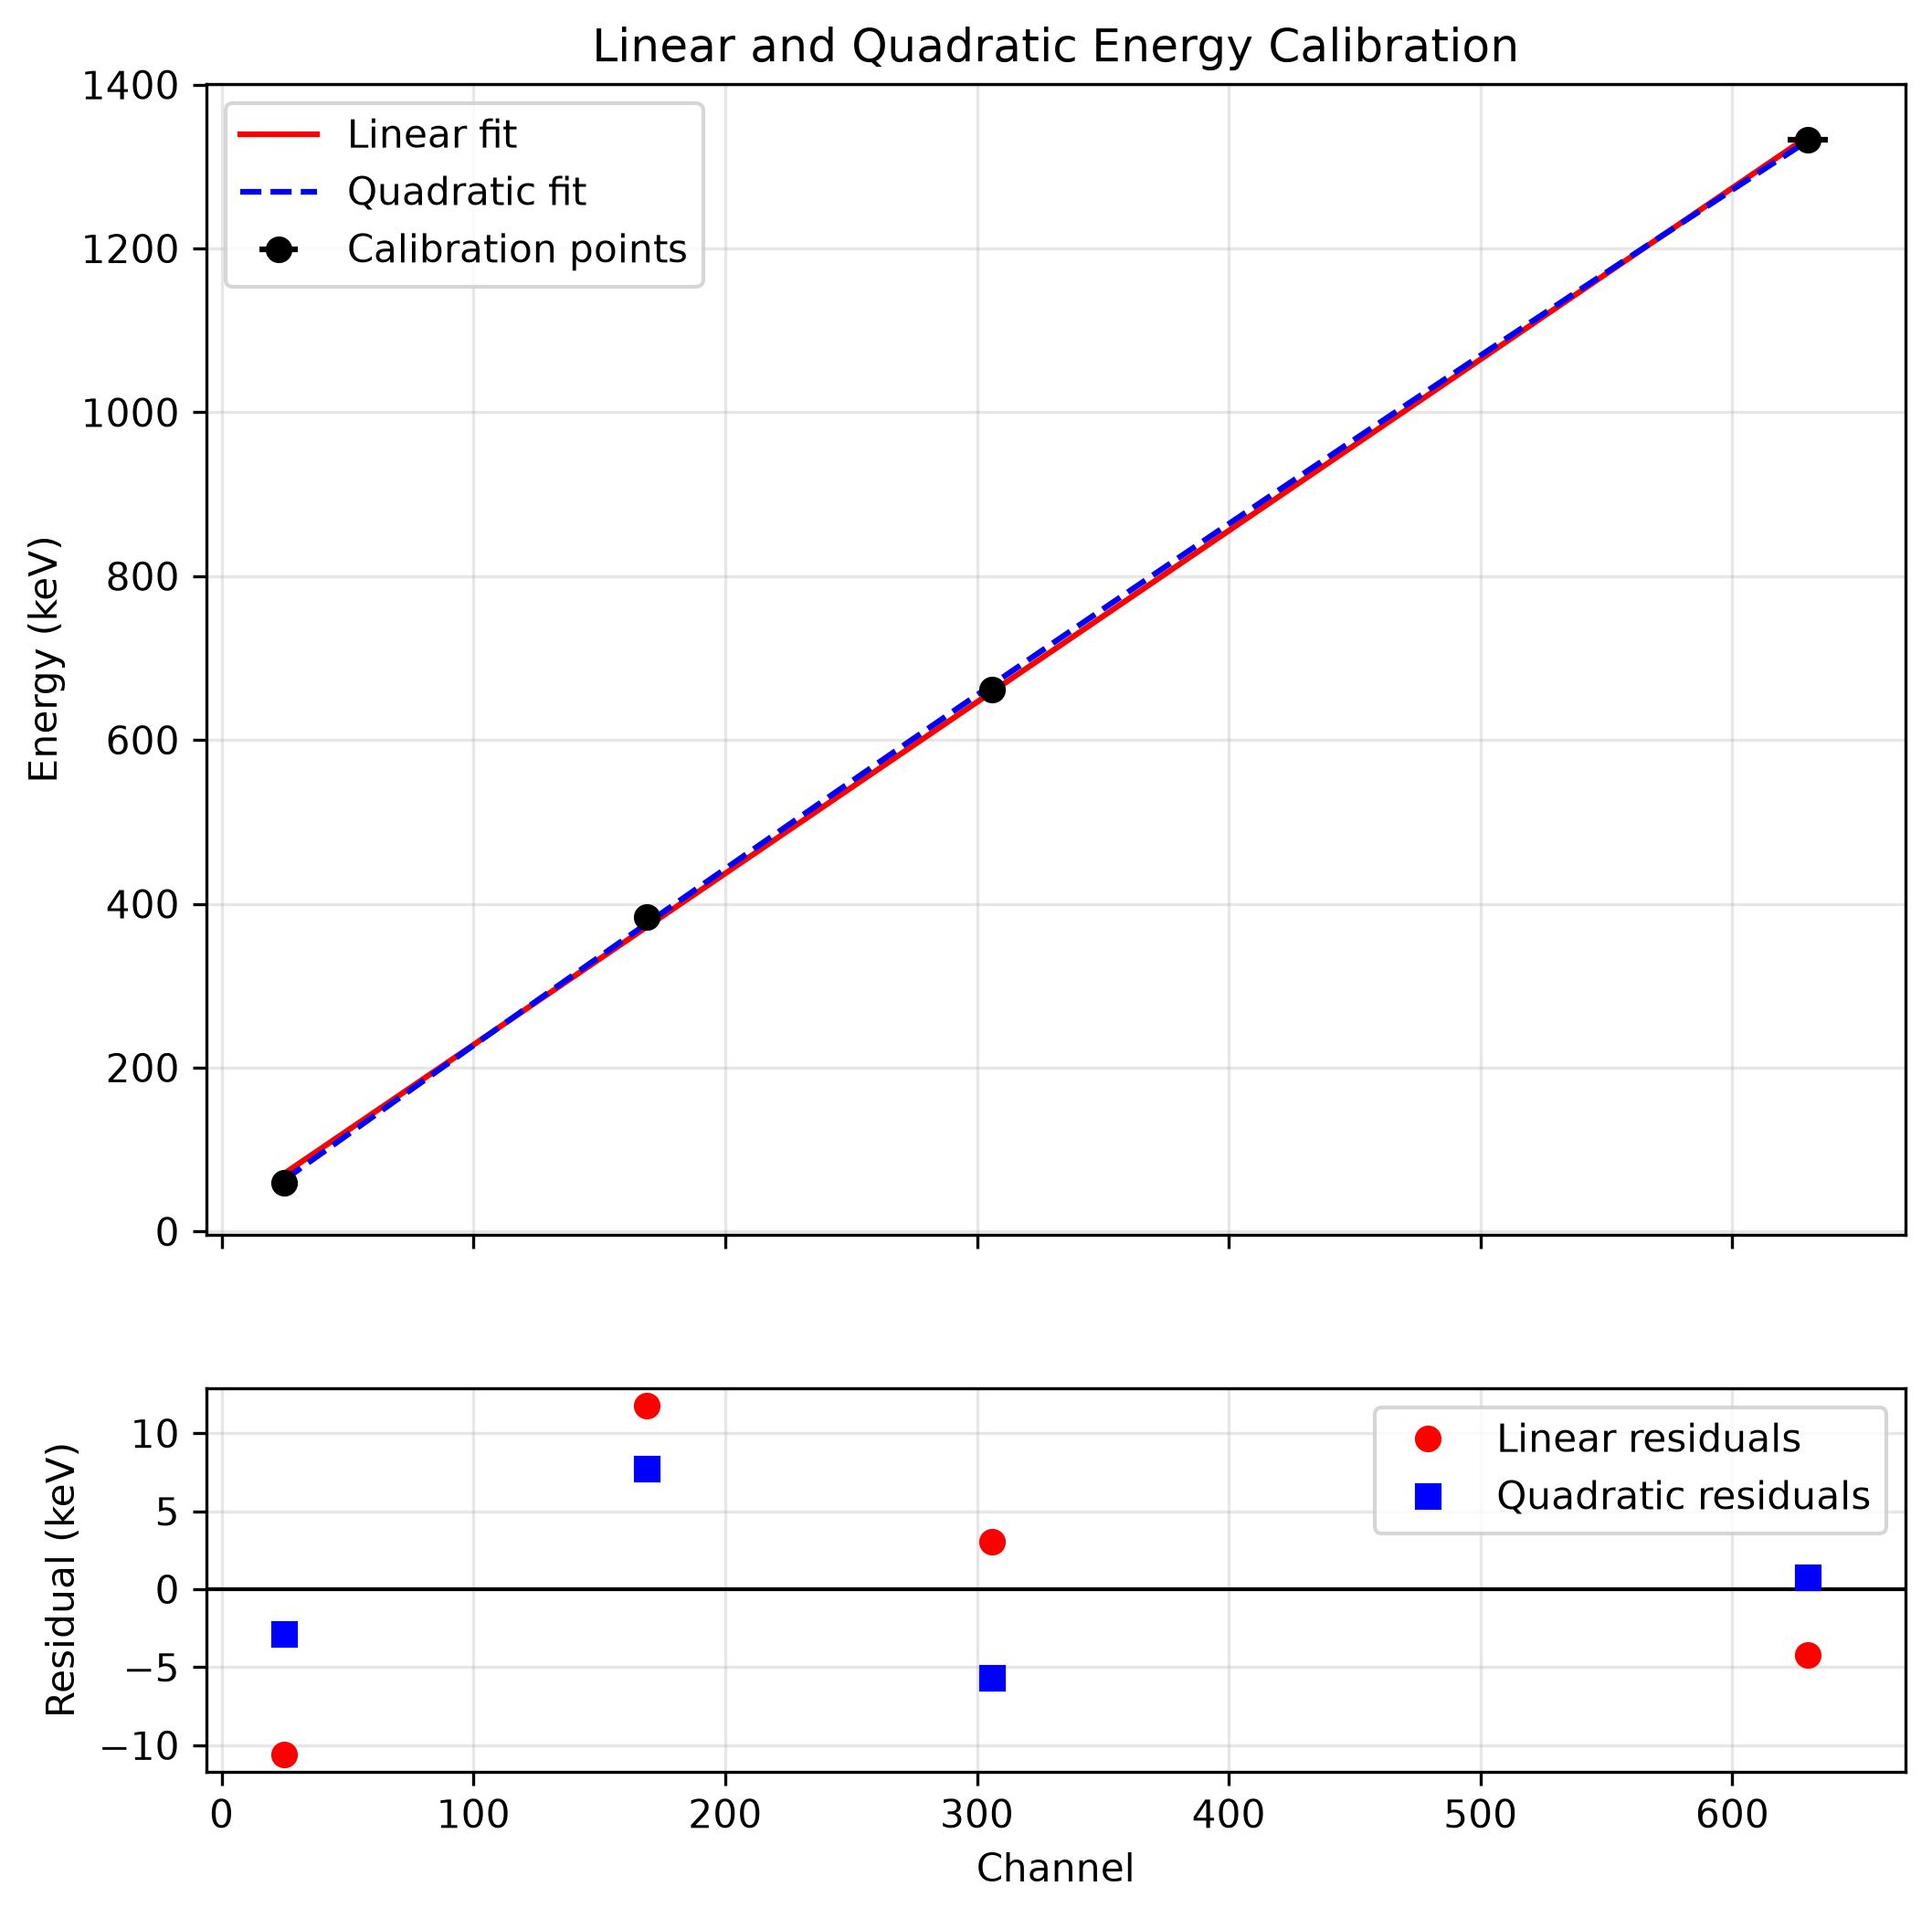
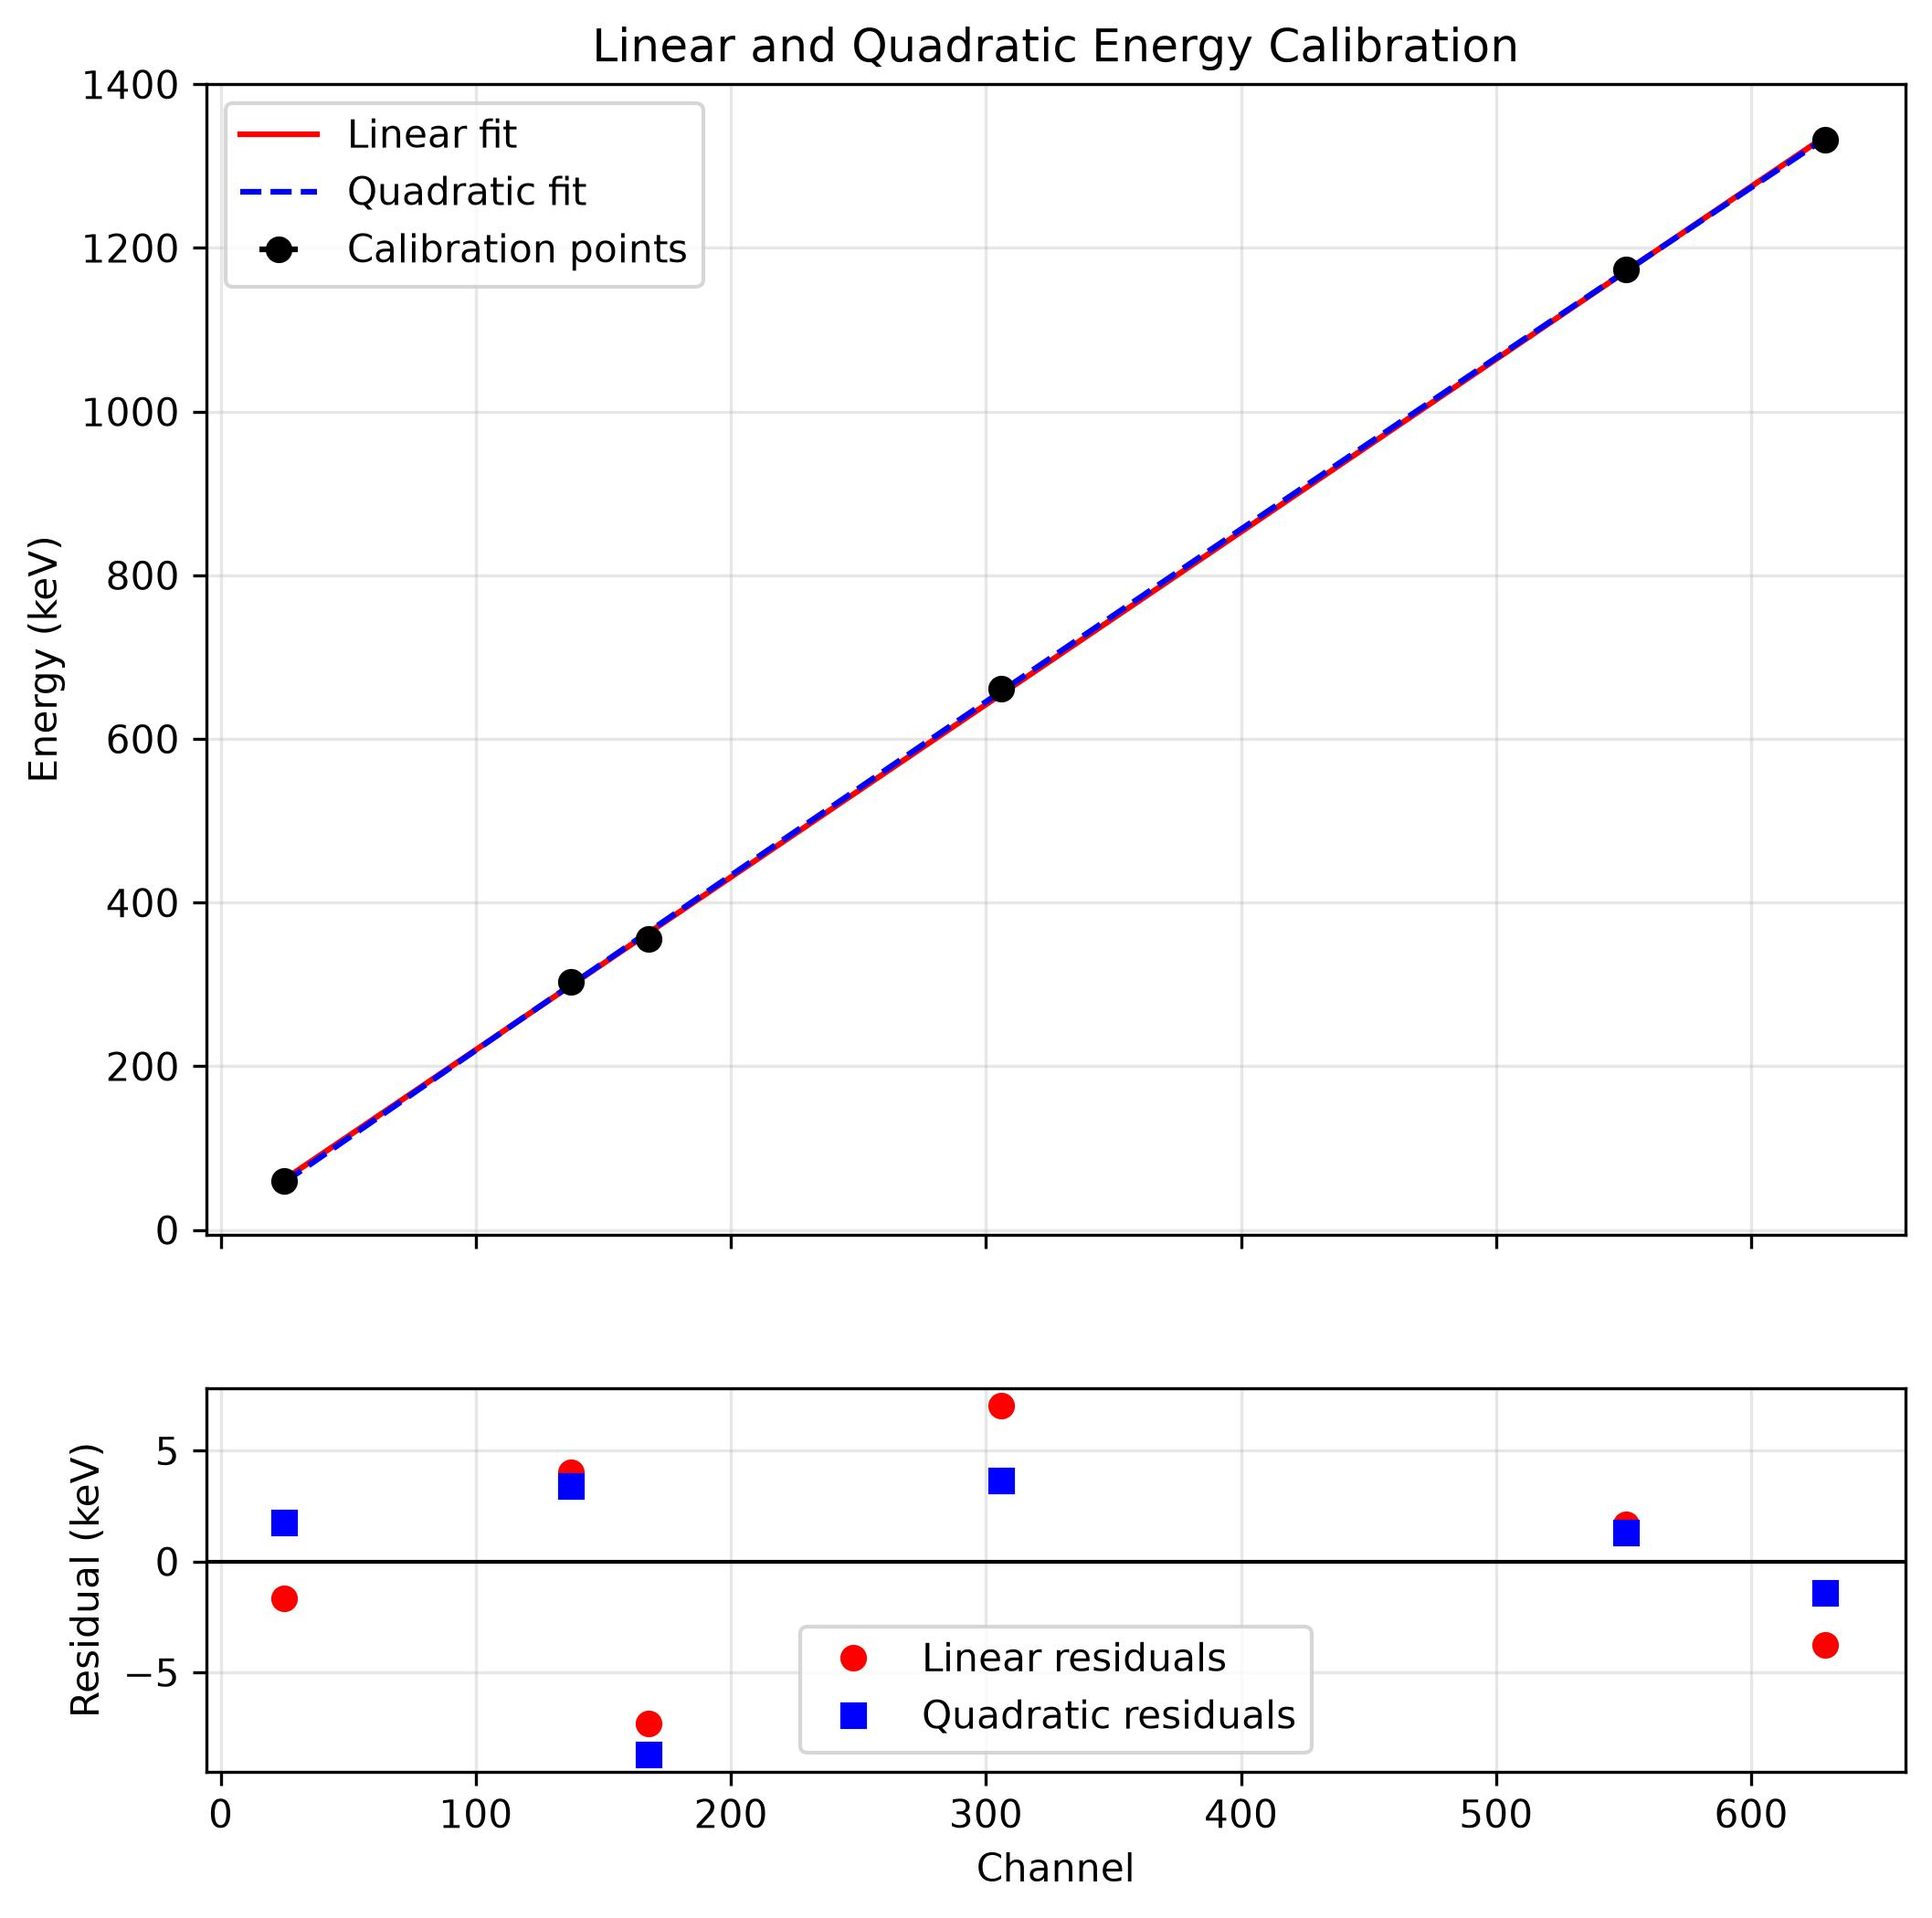
added the eff file and did the argparse

diff --git a/Efficiency.py b/Efficiency.py
@@ -231,57 +231,57 @@ def extract_measurement_date(filename):
 # SELECT A PEAK
 # ============================================================
 
-def select_peak(detector, source):
-    """
-    Display fitted peaks for a source and ask the user
-    which peak should be used for efficiency.
-    """
+# def select_peak(detector, source):
+#     """
+#     Display fitted peaks for a source and ask the user
+#     which peak should be used for efficiency.
+#     """
 
-    records = [
-        peak
-        for peak in detector.calibration_peak_records
-        if peak["isotope"] == source
-    ]
+#     records = [
+#         peak
+#         for peak in detector.calibration_peak_records
+#         if peak["isotope"] == source
+#     ]
 
-    if not records:
-        raise ValueError(
-            f"No fitted calibration peaks found for {source}."
-        )
+#     if not records:
+#         raise ValueError(
+#             f"No fitted calibration peaks found for {source}."
+#         )
 
-    records = sorted(
-        records,
-        key=lambda peak: peak["energy"]
-    )
+#     records = sorted(
+#         records,
+#         key=lambda peak: peak["energy"]
+#     )
 
-    print("\nAvailable fitted peaks")
-    print("-" * 65)
+#     print("\nAvailable fitted peaks")
+#     print("-" * 65)
 
-    for i, peak in enumerate(records, 1):
+#     for i, peak in enumerate(records, 1):
 
-        print(
-            f"{i}. Energy: {peak['energy']:.3f} keV | "
-            f"Centroid: {peak['centroid']:.2f} channels | "
-            f"Count rate: {peak['area']:.3f} CPS"
-        )
+#         print(
+#             f"{i}. Energy: {peak['energy']:.3f} keV | "
+#             f"Centroid: {peak['centroid']:.2f} channels | "
+#             f"Count rate: {peak['area']:.3f} CPS"
+#         )
 
-    print("-" * 65)
+#     print("-" * 65)
 
-    while True:
+#     while True:
 
-        answer = input(
-            "\nSelect the peak number for efficiency calculation: "
-        ).strip()
+#         answer = input(
+#             "\nSelect the peak number for efficiency calculation: "
+#         ).strip()
 
-        try:
-            choice = int(answer)
+#         try:
+#             choice = int(answer)
 
-            if 1 <= choice <= len(records):
-                return records[choice - 1]
+#             if 1 <= choice <= len(records):
+#                 return records[choice - 1]
 
-            print("Please select one of the listed peaks.")
+#             print("Please select one of the listed peaks.")
 
-        except ValueError:
-            print("Please enter a valid peak number.")
+#         except ValueError:
+#             print("Please enter a valid peak number.")
 
 
 # ============================================================
@@ -303,7 +303,7 @@ def get_emission_fraction(source, energy):
         if np.isclose(
             energy,
             known_energy,
-            atol=0.01
+            atol=1.01
         ):
             print(
                 f"Using emission fraction {fraction} "
@@ -466,6 +466,8 @@ def absolute_efficiency(detector, source=None):
                     f"{efficiency_error:.2e}"
                 )
 
+        # Store results directly in the Detector object.
+    detector.efficiency = results
 
     print("\n" + "=" * 65)
     print("EFFICIENCY CALCULATION COMPLETE")
@@ -473,51 +475,48 @@ def absolute_efficiency(detector, source=None):
 
     return results
 
-def intrinsic_eff(detector):
-    """
-    Calculate intrinsic photopeak efficiency using the
-    detector radius and each spectrum's source distance.
-    """
+def intrinsic_eff(asb_effic, filename):   
+    #WHatever the intrinisic effeciencie ends up being you can append it to the result in absolute effciency
+    '''
+    Function that calculates the intrinsic efficiency of the detector.
+    This is done by determining and applying a geometry factor which 
+    itself is dependant on the detectors radius and distance from 
+    the radio isotope source.
+    __________________
+    Parameters
+        dist: Float
+        The distance the detector is from the radioisotope
 
-    if not detector.efficiency:
-        raise ValueError(
-            "No absolute efficiency results stored. "
-            "Run calculate_absolute_efficiency() first."
-        )
+        radius: Float
+        radius of the detector
 
-    radius = detector.radius
+        abs_effic: Float
+        absolute efficiency of the detector
+    ___________________
+    Outputs
+        intrinsic_efficiency: Float
+        intrinsic efficiency of the detector
+    
+    '''
+    pass
+    # #get detector from file name
+    # detector = str(filename).split('_')[0]
 
-    results = {}
+    # # radius list of detectors
+    # dist = 0.1 # meters
+    # rad_list =  {
+    #     "BGO": #radius of bgo detector,
+    #     "NaI": #radius of nai detector,
+    #     "CdTe": #radius of bcdte detector
+    # }
 
-    for source, peaks in detector.efficiency.items():
+    # radius = rad_list[detector]
 
-        # We can actually get the distance from the Spectrum class - Thomas
-        dist = detector.spectra[source].distance
-
-        if dist is None or dist <= 0:
-            raise ValueError(
-                f"No valid source distance stored for {source}."
-            )
-
-        # Calculate geometry factor for this source
-        G = 0.5 * (1 - dist / np.sqrt(dist**2 + radius**2))
-
-        results[source] = []
-
-        for peak in peaks:
-
-            abs_eff = peak["absolute_efficiency"]
-            abs_err = peak["efficiency_error"]
-
-            updated_peak = peak.copy()
-
-            updated_peak["geometry_factor"] = G
-            updated_peak["intrinsic_efficiency"] = abs_eff / G
-            updated_peak["intrinsic_efficiency_error"] = abs_err / G
-
-            results[source].append(updated_peak)
-
-    return results
+    # #geometry factor
+    # G = 0.5 * (1 - (dist / (sqrt((dist**2)+(radius**2))))) 
+    # intrinsic_efficiency = abs_effic / G
+    
+    # return intrinsic_efficiency
 
 
 
@@ -556,54 +555,11 @@ def plot_absolute_efficiency(detector):
 
     plt.xlabel("Gamma-ray Energy (keV)")
     plt.ylabel("Absolute Efficiency")
+    plt.xscale("log")
+    plt.yscale("log")
     plt.title(f"{detector.name} Absolute Efficiency")
     plt.grid(alpha=0.3)
     plt.legend(title="Source")
     plt.tight_layout()
-    plt.show()
 
-def plot_intrinsic_efficiency(detector):
-    """
-    Plot intrinsic efficiency against gamma-ray energy
-    for all sources belonging to a detector.
-    """
-
-    if detector.efficiency is None:
-        raise ValueError("Calculate efficiency first.")
-
-    plt.figure(figsize=(8, 5))
-
-    for source, peaks in detector.efficiency.items():
-
-        if not peaks:
-            continue
-
-        energies = [p["energy"] for p in peaks]
-        efficiencies = [
-            p["intrinsic_efficiency"] for p in peaks
-        ]
-        errors = [
-            p["intrinsic_efficiency_error"] for p in peaks
-        ]
-
-        plt.errorbar(
-            energies,
-            efficiencies,
-            yerr=errors,
-            fmt="o",
-            capsize=4,
-            label=source
-        )
-
-    plt.axhline(1, color="gray", linestyle="--", alpha=0.6)
-
-    plt.xscale("log")
-    plt.yscale("log")
-
-    plt.xlabel("Gamma-ray Energy (keV)")
-    plt.ylabel("Intrinsic Photopeak Efficiency")
-    plt.title(f"{detector.name} Intrinsic Efficiency")
-    plt.grid(alpha=0.3)
-    plt.legend(title="Source")
-    plt.tight_layout()
     plt.show()

diff --git a/main.py b/main.py
@@ -1,9 +1,12 @@
 """Load source spectra for BGO, NaI and CdTe and calibrate each detector."""
 import difflib
 from pathlib import Path
+from Efficiency import absolute_efficiency, plot_absolute_efficiency
 
+from Offaxis import run_off_axis , plot_comparison 
 from spectra import Spectrum
 from detector import Detector
+import argparse
 
 def find_file(filename):
     """Find a file under the folder containing this script, with a clear error."""
@@ -242,15 +245,40 @@ def make_detector(name):
 
 
 def main():
-    for name in ["BGO"]:
+    parser = argparse.ArgumentParser()
+    parser.add_argument("Calibration", nargs ="+")
+    
+    args = parser.parse_args()
+    print(args)
+
+    all_r={}
+    if len(args.Calibration) > 1:
+        for name in args.Calibration:
+            det = make_detector(name)
+            det.calibrate()
+            det.calculate_resolution()
+            absolute_efficiency(det)
+            plot_absolute_efficiency(det)
+
+            for source in measurements[name]["sources"]:
+                spectra = make_detector_for_Offaxis(name, source)
+                for energy, r in run_off_axis(det, spectra, source).items():
+                    all_r[(name, source, energy)] = r
+
+            plot_comparison(all_r)
+    else:
+            name = args.Calibration[0]
+            print(name)
+            det = make_detector(name)
+            det.calibrate()
+            det.calculate_resolution()
+            absolute_efficiency(det)
+            plot_absolute_efficiency(det)
         
-        detector = make_detector(name)
-
-        detector.calibrate()
-        detector.calculate_resolution()
-
-        for source in ["Am", "Ba", "Cs", "Co"]:
-            detector.calculate_off_axis(source)
+            for source in measurements[name]["sources"]:
+                spectra = make_detector_for_Offaxis(name, source)
+            for energy, r in run_off_axis(det, spectra, source).items():
+                all_r[(name, source, energy)] = r
         
 
 
